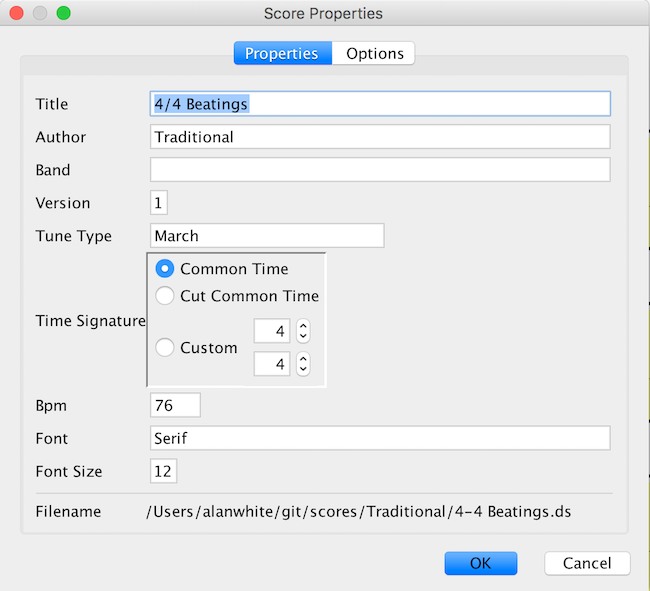
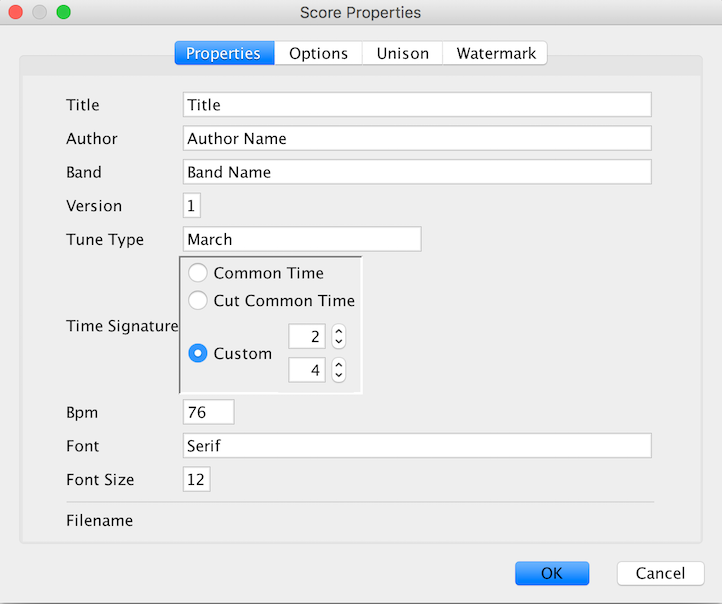
rel 2.6 update

diff --git a/src/pages/properties.html b/src/pages/properties.html
@@ -38,14 +38,16 @@
 									always show triplets below the staff note for example - by
 									specifying as a default preference it avoids having to set it
 									manually each time after a score is generated.</p>
-								<p>There are two major groupings of properties that can be
+								<p>There are 4 major groupings of properties that can be
 									set, the general attributes of a score such as the title,
 									author etc, and then the options which determine how the score
-									is represented such as unison colour or lines. All these are
+									is represented, then how unison is specified and then any watermark
+									(studio edition only). All these are
 									accessed through the File -> Properties menu item, or the
 									spanner icon on the toolbar, both of which, given this is all
 									about settings properties of a score, are only enabled if
 									there's a score loaded.</p>
+
 								<h5>Properties</h5>
 								<p>The first tab in the Score Properties dialog deals with
 									the core attributes of the score as shown.</p>
@@ -117,11 +119,7 @@
 										</tr>
 									</tbody>
 								</table>
-								<p>The content of all these variables is taken from the
-									score properties, accessed from the File -> Properties menu
-									option. When the score generator is used to create a new score
-									these are populated with answers provided by the user at
-									generation time.</p>
+
 								<h5>Options</h5>
 								<p>The options tab deals with various ways the score can be
 									represented.</p>
@@ -137,21 +135,8 @@
 									</thead>
 									<tbody>
 										<tr>
-											<td>Draw line above Unison</td>
-											<td>Setting this option results in a line being drawn
-												above any note or phrases marked as unison in the score</td>
-										</tr>
-										<tr>
-											<td>Use colour to highlight unison</td>
-											<td>Many drummers take a score and use a highlighter pen
-												to more easily see the unison sections. This option allows
-												Drum Score Editor to do that bit for you.</td>
-										</tr>
-										<tr>
-											<td>Colour to highlight unison</td>
-											<td>If you are going to use colour to highlight unison,
-												this lets you determine which colour will be used.</td>
-										</tr>
+
+
 										<tr>
 											<td>Change highlighter colours</td>
 											<td>Many authors use different highlight colours to mean
@@ -195,11 +180,84 @@
 										</tr>
 									</tbody>
 								</table>
-								<p>The content of all these variables is taken from the
-									score properties, accessed from the File -> Properties menu
-									option. When the score generator is used to create a new score
-									these are populated with answers provided by the user at
-									generation time.</p>
+
+								<h5>Unison</h5>
+								<p>The options tab deals with various ways unison can be
+									represented.</p>
+								<img src="assets/img/unisontab.png" />
+
+								<p></p>
+								<table>
+									<thead>
+										<tr>
+											<th width="200">Option</th>
+											<th>Value</th>
+										</tr>
+									</thead>
+									<tbody>
+										<td>Draw line above Unison</td>
+										<td>Setting this option results in a line being drawn
+											above any note or phrases marked as unison in the score</td>
+									</tr>
+										<tr>
+											<td>Use colour to highlight unison</td>
+											<td>Many drummers take a score and use a highlighter pen
+												to more easily see the unison sections. This option allows
+												Drum Score Editor to do that bit for you.</td>
+										</tr>
+										<tr>
+											<td>% Weight of unison highlight</td>
+											<td>Specified how see-through the virtual highlighter
+												marker for unison is, i.e. it's opacity.</td>
+										</tr>
+										<tr>
+											<td>Use thinner unison highlighter</td>
+											<td>Just highlight the note heads and elements above them.</td>
+										</tr>
+										<tr>
+											<td>Colour to highlight unison</td>
+											<td>If you are going to use colour to highlight unison,
+												this lets you determine which colour will be used.</td>
+										</tr>
+
+
+									</tbody>
+								</table>
+
+								<h5>Watermark (Studio Edition Only)</h5>
+								<p>The watermark tab deals with various ways a watermark can be
+									represented.</p>
+								<img src="assets/img/watermarktab.png" />
+
+								<p></p>
+								<table>
+									<thead>
+										<tr>
+											<th width="200">Option</th>
+											<th>Value</th>
+										</tr>
+									</thead>
+									<tbody>
+										<tr>
+											<td>Use watermark</td>
+											<td>Whether any watermark should be shown</td>
+										</tr>
+										<tr>
+											<td>Watermark Text</td>
+											<td>The text to be used in any watermark.</td>
+										</tr>
+										<tr>
+											<td>Font Size</td>
+											<td>Specifies how big the watermark text will be.</td>
+										</tr>
+										<tr>
+											<td>% Weight of watermark</td>
+											<td>How heavy the watermark look on the page, i.e. it's opacity</td>
+										</tr>
+
+										</tbody>
+									</table>
+
 							</div>
 						</div>
 
@@ -208,7 +266,7 @@
 					</div>
 
 					{{> navigation}}
-					
+
 				</div>
 			</div>
 		</div>

diff --git a/src/pages/index.html b/src/pages/index.html
@@ -33,7 +33,8 @@
 									layout and spacing of notes. It allows the user to edit, print
 									and save drumming scores on their own Windows, Mac or Linux
 									laptop or PC. These pages describe the current version of Drum
-									Score Editor, available for free download from this site.
+									Score Editor, available for free download from <a
+										href="https://www.drumscore.scot">here</a>.
 									Although all screen shots in this manual are from a Mac, the
 									information presented is the same on Windows.</p>
 								<p>The software will never be finished as long as feedback
@@ -61,7 +62,7 @@
 									Drum Score Editor works well with popular PDF writing printer
 									drivers on Windows, and the built-in capability on a Mac to
 									create PDFs. A licensed productivity feature exists to natively
-									save as a PDF.
+									save as a PDF, JPEG, PNG or SVG file.
 								<p>Each score can be zoomed for finer control and better
 									visibility, however it should be noted this is for working with
 									the score on screen and zooming doesn't impact the printed
@@ -76,13 +77,15 @@
 									from the Insert menu or the Score and Staff buttons on the main
 									toolbar.</p>
 								<p>Once created they can be moved around the page using the
-									mouse, by clicking and holding the mouse button down over the
-									border, and dragging it to the new location. Text or music
-									areas can be deleted by selecting the border with a single
-									click and then pressing the backspace key. If a text or music
-									area is accidentally deleted, the undo feature (Edit -> Undo)
-									can be used to recover it. Clicking inside the text or music
-									area allows the user to edit the contents of that area.</p>
+									mouse, by first enabling page level editing by ensuring the
+									Edit -> Page menu item is ticked, clicking and holding the
+									mouse button down over the border, and dragging it to the new
+									location. Text or music areas can be deleted by selecting the
+									border with a single click and then pressing the backspace key.
+									If a text or music area is accidentally deleted, the undo
+									feature (Edit -> Undo) can be used to recover it. Clicking
+									inside the text or music area allows the user to edit the contents
+									of that area.</p>
 								<h5 id="visual-tour">Visual Tour</h5>
 								<p>There are 4 main areas on the screen to understand with
 									Drum Score Editor, no matter whether you're using Windows or
@@ -137,14 +140,16 @@
 								<h5>View</h5>
 								<p>The view menu allows the various toolbars to be hidden,
 									zoom levels to be controlled, and (licensed studio edition
-									only) management of rudiments libraries.</p>
+									only) management of rudiments libraries, bar content warnings
+									and access to the multimedia studio.</p>
 
 								<h5>Insert</h5>
-								<p>New text or music areas can be created here. Once
-									selected, the score is shaded and the cursor turns to a
-									cross-hair indicating the user should click on the page where
-									the new area is to be created. Also, if focused inside a music
-									area, menu items for inserting new staff lines are enabled.</p>
+								<p>New text or music areas can be created here, if page level editing
+									is enabled (Edit -> Page). Once selected, the score is shaded
+									and the cursor turns to a cross-hair indicating the user should
+									click on the page where the new area is to be created. Also, if
+									focused inside a music area, menu items for inserting new staff
+									lines are enabled.</p>
 
 								<h5>Format</h5>
 								<p>From here various options are available for changing the
@@ -159,7 +164,9 @@
 								<b>Music Area</b>
 								<p>The current staff line being edited can be deleted from
 									here, or a new one added above or below. The point size for the
-									music can be set between 18 and 48 points.</p>
+									music can be set between 18 and 48 points. For licensed users
+									various workflows for managing 2nd times and other features are
+									available</p>
 							</div>
 						</div>
 

diff --git a/src/pages/studiofeatures.html b/src/pages/studiofeatures.html
@@ -41,6 +41,8 @@
 									<li>Beautify Your Score</li>
 									<li>Bar Note Checking</li>
 									<li>Autobeam</li>
+									<li>Multimedia Studio</li>
+									<li>Watermark</li>
 								</ul>
 								<p>Each of these is described in detail below.</p>
 								<h5>Rudiment Libraries</h5>
@@ -171,12 +173,18 @@
 									actions in Drum Score Editor undo will put it back.</p>
 								<p></p>
 								<h5>New Score Preferences</h5>
-								<p>Options used when generating new scores can be set. This
+								<p>Deafult options used when generating new scores can be set. This
 									is useful if the authors preference is to always use certain
 									custom values including font size, band name, author name,
 									unison highlighting or not, colours used for other highlights,
 									traditional note heads or strikes instead.</p>
 								<img src="assets/img/options.png">
+								<p></p>
+								<img src="assets/img/format.png">
+								<p></p>
+								<img src="assets/img/unison.png">
+								<p></p>
+								<img src="assets/img/watermark.png">
 
 								<p>
 									<br /> This dialog is accessed by the Edit -> Options menu
@@ -237,7 +245,7 @@
 									reduces the distance - proportionately.</p>
 								<h5>Beautify Your Score</h5>
 								<p>The beautify feature is accessed from the Format -> Music
-									menu for licensed users. This feature takes all the notes in
+									menu, or the alt-b hotkey. This feature takes all the notes in
 									the music area and positions them logically where they "should"
 									be between bar lines. So what does "should" mean?</p>
 								<p>It starts by placing the first note in the bar a short
@@ -293,11 +301,28 @@
 									considers the time signature in effect too, so if there's none
 									on the staff lines, it uses the time signature in the score
 									properties.</p>
+									<img src="assets/img/baraudit.png">
 								<h5>Autobeam</h5>
 								<p>No need to go through your score telling it when to join
 									the tails of quavers and smaller notes, or figure where the
 									primary subdivision of the beat is to put a single line. Just
 									saved yourself another whole bunch of time, and brain strain!</p>
+									<img src="assets/img/autobeam.png">
+								<h5>Multimedia Studio</h5>
+								<p>Intended to be used in 3 phases. Firstly get comfortable playing along,
+									set the tempo etc, then record an audio track, review and refine, and
+									finally produce an mp4 movie of the score, with the intended interpretation
+									in the audio track, at the tempo specified, and the score animated
+									with a ball arcing between beat notes.</p>
+									<img src="assets/img/mediastudio.png">
+									<p></p>
+								<h5>Watermark</h5>
+								<p>Allows specification of a watermark on the score. This allows
+									the author to set any text, how heavy and how large that text appears
+									on the page. It is visible on the screen, printer, PDF and MP4s, and can
+									be used for copyright info, identifying who the score has been issued to
+									or whtever purpose you choose!</p>
+									<img src="assets/img/watermarkpage.png">
 							</div>
 						</div>
 

diff --git a/src/pages/musicareas.html b/src/pages/musicareas.html
@@ -373,6 +373,11 @@
 												notes or not</td>
 										</tr>
 										<tr>
+											<td>alt-b</td>
+											<td>runs beautify across the music area, laying out notes
+												and rests according to a built in formula (studio edition only)</td>
+										</tr>
+										<tr>
 											<td>.</td>
 											<td>(dot key) toggles whether selected note(s) are
 												dotted or not, note if exactly 2 notes are selected it
